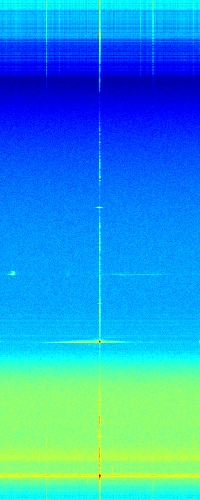
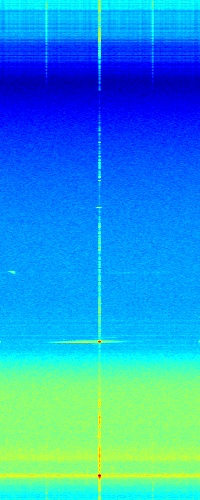
doppler zero padding factor

diff --git a/src/signal_processor.cpp b/src/signal_processor.cpp
@@ -16,12 +16,12 @@ void SignalProcessor::allocateMemory(void)
 	refBuffer 		= (fftw_complex*)malloc(experiment->ncs_padded*sizeof(fftw_complex));
 	
 	resultBuffer 	= (fftw_complex*)malloc(experiment->n_threads*experiment->ncs_padded*sizeof(fftw_complex));
-	dopplerBuffer   = (fftw_complex*)malloc(experiment->ncs_doppler_cpi*sizeof(fftw_complex));
+	dopplerBuffer   = (fftw_complex*)malloc(experiment->ncs_doppler_cpi*experiment->doppler_padding_factor*sizeof(fftw_complex));
 
 	dopplerData     = (fftw_complex*)malloc(experiment->ncs_padded*experiment->ncs_doppler_cpi*sizeof(fftw_complex));
 	
 	matchedImageBuffer  = (double*)malloc(experiment->n_threads*experiment->ncs_padded*sizeof(double));
-	dopplerImageBuffer  = (double*)malloc(experiment->ncs_doppler_cpi*sizeof(double));	
+	dopplerImageBuffer  = (double*)malloc(experiment->ncs_doppler_cpi*experiment->doppler_padding_factor*sizeof(double));	
 	
 	rangePlan = (fftw_plan*)malloc(experiment->n_threads*sizeof(fftw_plan));
 	resultPlan = (fftw_plan*)malloc(experiment->n_threads*sizeof(fftw_plan));	
@@ -34,7 +34,7 @@ void SignalProcessor::createPlans(int thread_id)
 {
 	rangePlan[thread_id] = fftw_plan_dft_1d(experiment->ncs_padded, &lineBuffer[thread_id*experiment->ncs_padded], &lineBuffer[thread_id*experiment->ncs_padded], FFTW_FORWARD, FFTW_MEASURE);
 	resultPlan[thread_id] = fftw_plan_dft_1d(experiment->ncs_padded, &resultBuffer[thread_id*experiment->ncs_padded], &lineBuffer[thread_id*experiment->ncs_padded], FFTW_BACKWARD, FFTW_MEASURE);
-	dopplerPlan = fftw_plan_dft_1d(experiment->ncs_doppler_cpi, dopplerBuffer, dopplerBuffer, FFTW_FORWARD , FFTW_MEASURE);
+	dopplerPlan = fftw_plan_dft_1d(experiment->ncs_doppler_cpi*experiment->doppler_padding_factor, dopplerBuffer, dopplerBuffer, FFTW_FORWARD , FFTW_MEASURE);
 }
 
 
@@ -115,25 +115,33 @@ void SignalProcessor::processDoppler(int rangeLine, OpenCVPlot &plot)
 
 void SignalProcessor::popDopplerBuffer(int dopplerLine)
 {
-	for (int j = 0; j < experiment->ncs_doppler_cpi; j++)
+	for (int j = 0; j < experiment->ncs_doppler_cpi*experiment->doppler_padding_factor; j++)
 	{	
-		float windowCoefficient = dopplerWindow.getSample(j);
-		dopplerBuffer[j][0] = dopplerData[dopplerLine*experiment->ncs_doppler_cpi + j][0]*windowCoefficient; 
-		dopplerBuffer[j][1] = dopplerData[dopplerLine*experiment->ncs_doppler_cpi + j][1]*windowCoefficient;
+		if (j < experiment->ncs_doppler_cpi)
+		{
+			float windowCoefficient = dopplerWindow.getSample(j);
+			dopplerBuffer[j][0] = dopplerData[dopplerLine*experiment->ncs_doppler_cpi + j][0]*windowCoefficient; 
+			dopplerBuffer[j][1] = dopplerData[dopplerLine*experiment->ncs_doppler_cpi + j][1]*windowCoefficient;
+		}
+		else
+		{
+			dopplerBuffer[j][0] = 0; 
+			dopplerBuffer[j][1] = 0;
+		}
 	}	
 }
 
 
 void SignalProcessor::addToDopplerPlot(int dopplerLine, OpenCVPlot &plot)
 {
-	for (int i = 0; i < experiment->ncs_doppler_cpi; i++)
+	for (int i = 0; i < experiment->ncs_doppler_cpi*experiment->doppler_padding_factor; i++)
 	{
 
 		//perform fft shift
-		if (i < (experiment->ncs_doppler_cpi/2 + 1))		
-			dopplerImageBuffer[i + (experiment->ncs_doppler_cpi/2 - 1)] = mag(dopplerBuffer[i]);
+		if (i < ((experiment->ncs_doppler_cpi*experiment->doppler_padding_factor)/2 + 1))		
+			dopplerImageBuffer[i + ((experiment->ncs_doppler_cpi*experiment->doppler_padding_factor)/2 - 1)] = mag(dopplerBuffer[i]);
 		else
-			dopplerImageBuffer[i - (experiment->ncs_doppler_cpi/2 + 1)] = mag(dopplerBuffer[i]);
+			dopplerImageBuffer[i - ((experiment->ncs_doppler_cpi*experiment->doppler_padding_factor)/2 + 1)] = mag(dopplerBuffer[i]);
 	}	
 	
 	plot.addRD(dopplerLine, dopplerImageBuffer);
@@ -318,6 +326,7 @@ void SignalProcessor::getExperimentParameters(void)
 	experiment->ncs_padded 			= atoi(ini.GetValue("dataset", "n_cmplx_samples_padded"));	
 	experiment->n_threads 			= atoi(ini.GetValue("processing", "n_threads"));	
 	experiment->ncs_doppler_cpi 	= atoi(ini.GetValue("processing", "doppler_cpi"));	
+	experiment->doppler_padding_factor = atoi(ini.GetValue("processing", "doppler_padding_factor"));
 	
 	std::string doppler_flag = ini.GetValue("processing", "doppler_enabled");	
 		

diff --git a/src/plotting.cpp b/src/plotting.cpp
@@ -173,7 +173,7 @@ void OpenCVPlot::initOpenCV(void)
 		cv::namedWindow("RD Plot");
 		cv::moveWindow("RD Plot", rtSize.width, 0); 
 		cv::createTrackbar( "RD Colour Map", "Control", &rdCMapSldr, cMapMax);
-		rdImage = cv::Mat::ones(experiment->n_range_lines, experiment->ncs_doppler_cpi, CV_64F);
+		rdImage = cv::Mat::ones(experiment->n_range_lines, experiment->ncs_doppler_cpi*experiment->doppler_padding_factor, CV_64F);
 		
 		avrgMax = (experiment->n_range_lines)/(experiment->update_rate);
 		cv::createTrackbar( "RD Averaging", "Control", &avrgSldr, avrgMax);
@@ -206,7 +206,7 @@ void OpenCVPlot::addRTI(int rangeLine, double  *imageValues)
 
 void OpenCVPlot::addRD(int dopplerLine, double *imageValues)
 {
-	cv::Mat row = cv::Mat(1, experiment->ncs_doppler_cpi, CV_64F, imageValues);
+	cv::Mat row = cv::Mat(1, experiment->ncs_doppler_cpi*experiment->doppler_padding_factor, CV_64F, imageValues);
 	rdImage.push_back(row);
 }
 

diff --git a/src/experiment.hpp b/src/experiment.hpp
@@ -18,6 +18,7 @@ typedef struct
 	int ncs_doppler_cpi; 	
 	int n_plot_average;
 	
+	int doppler_padding_factor;
 	int update_rate;	
 	int cm_doppler;
 	int cm_rti;
